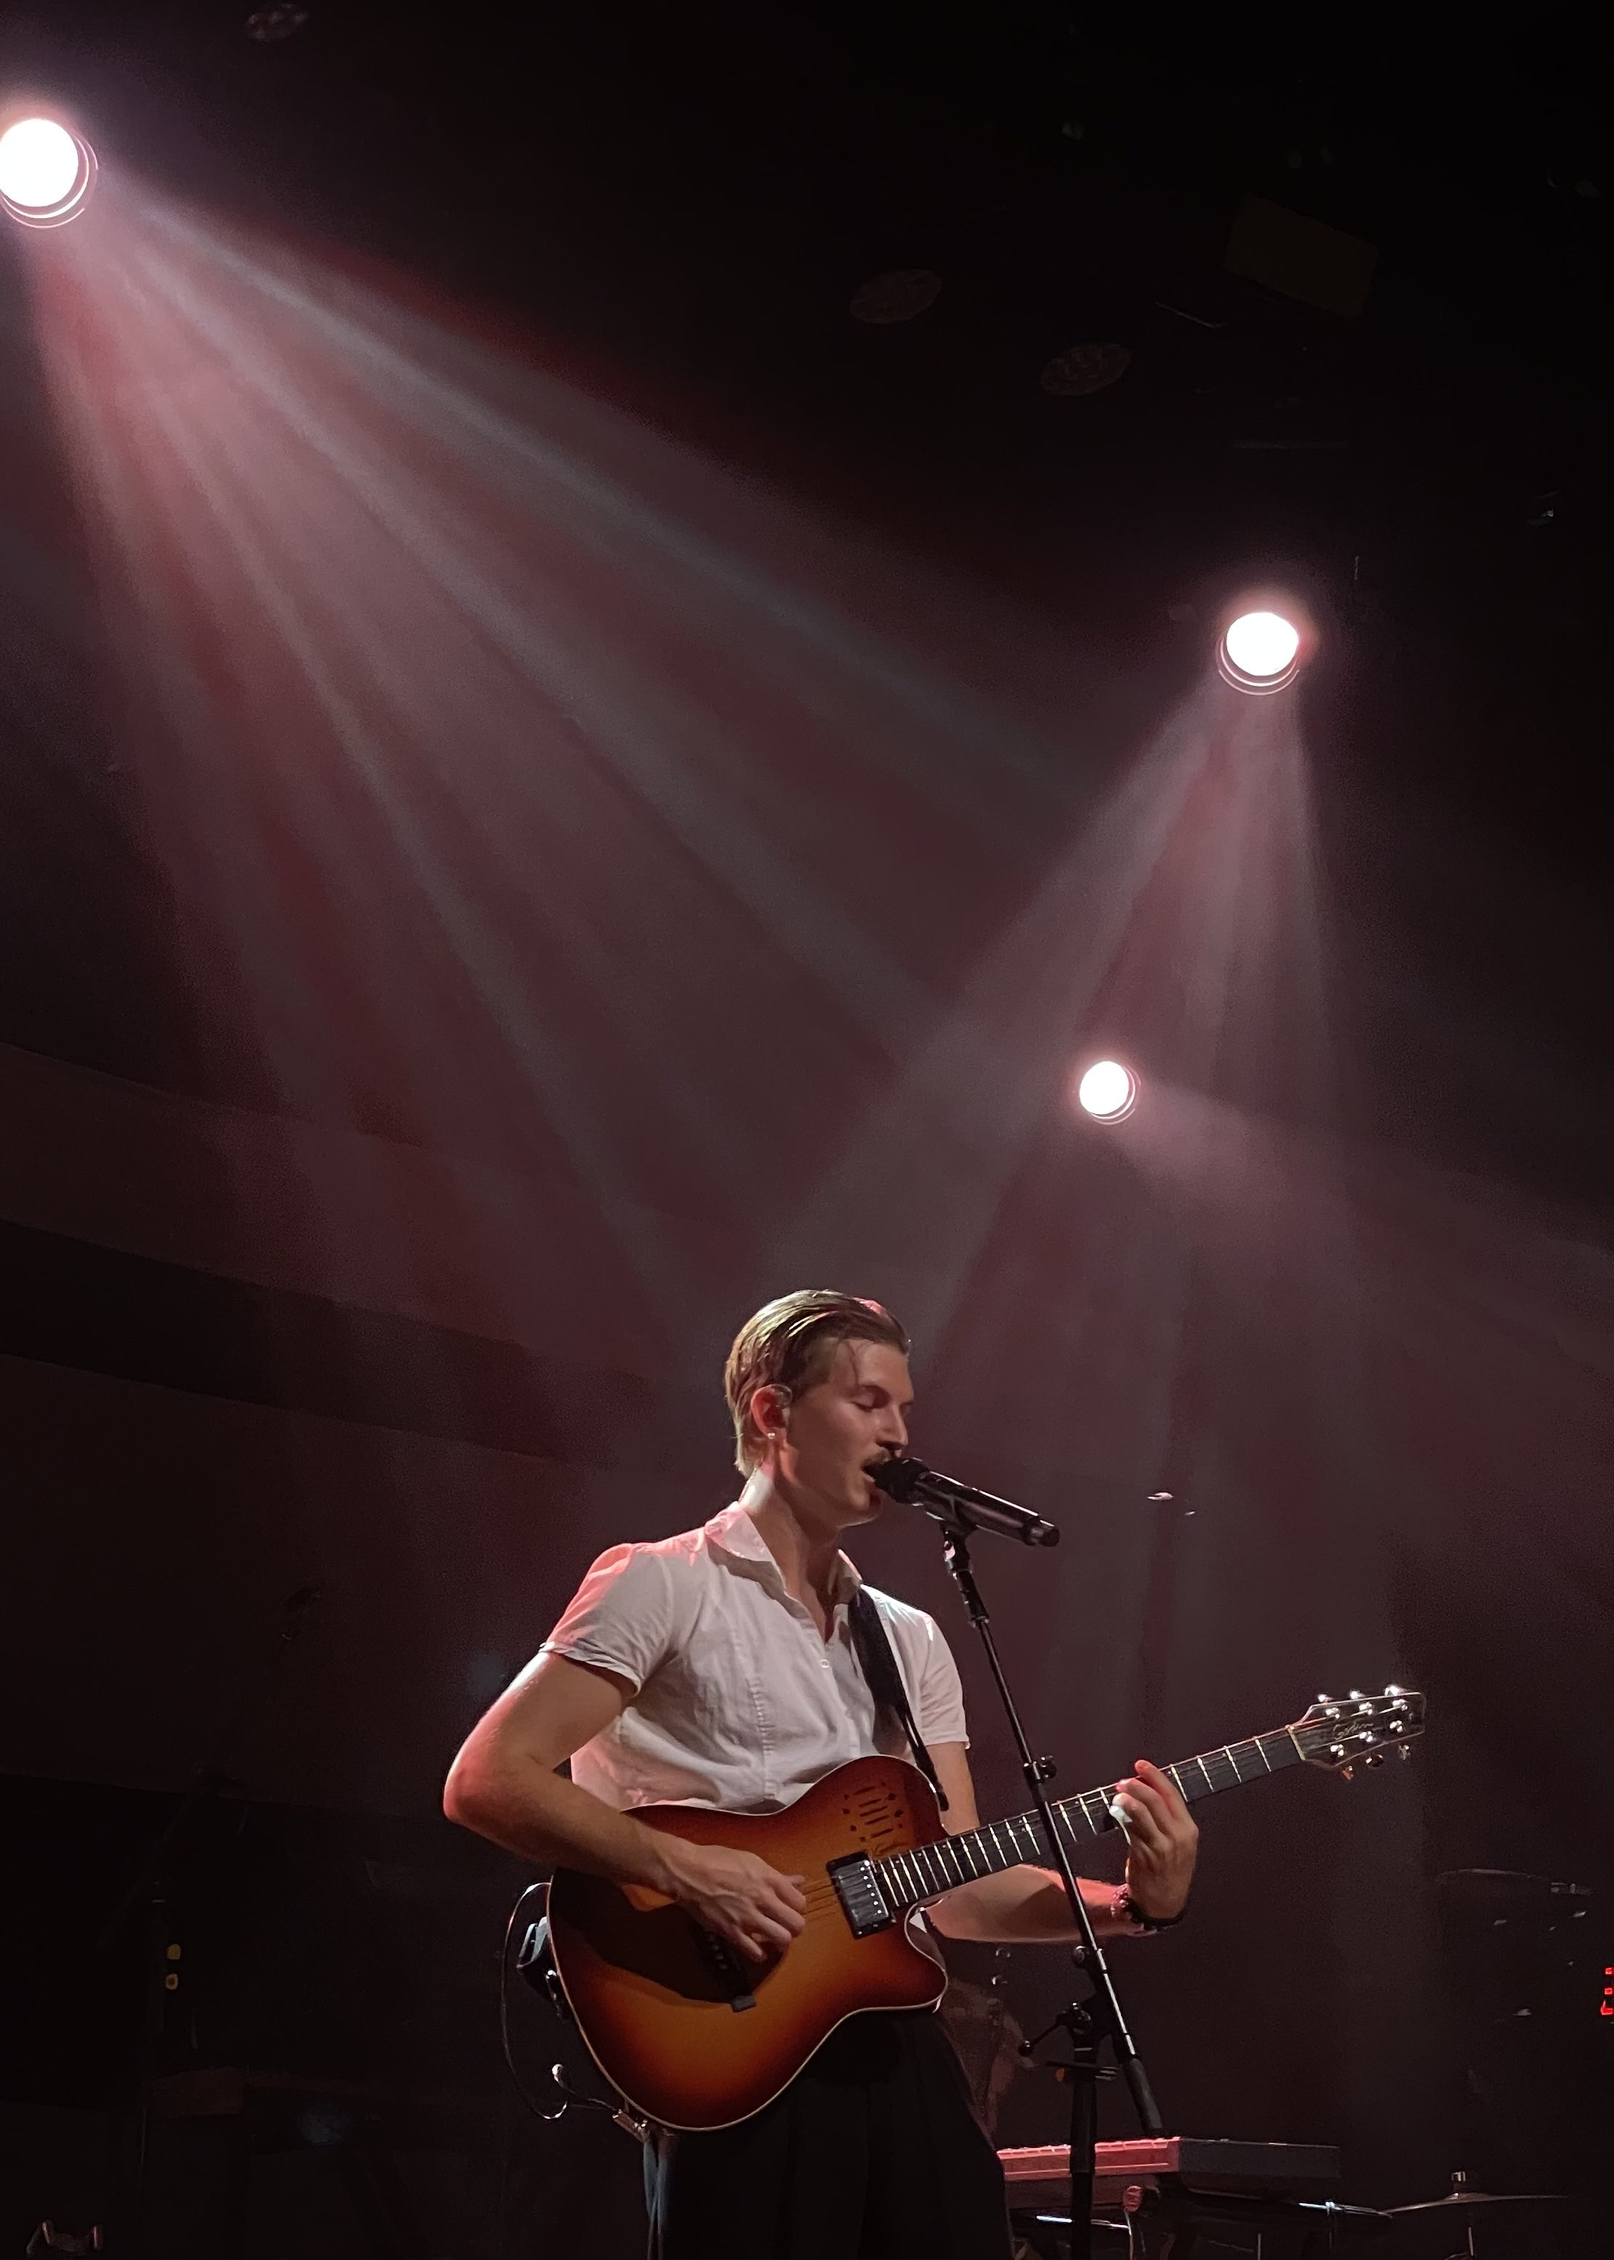
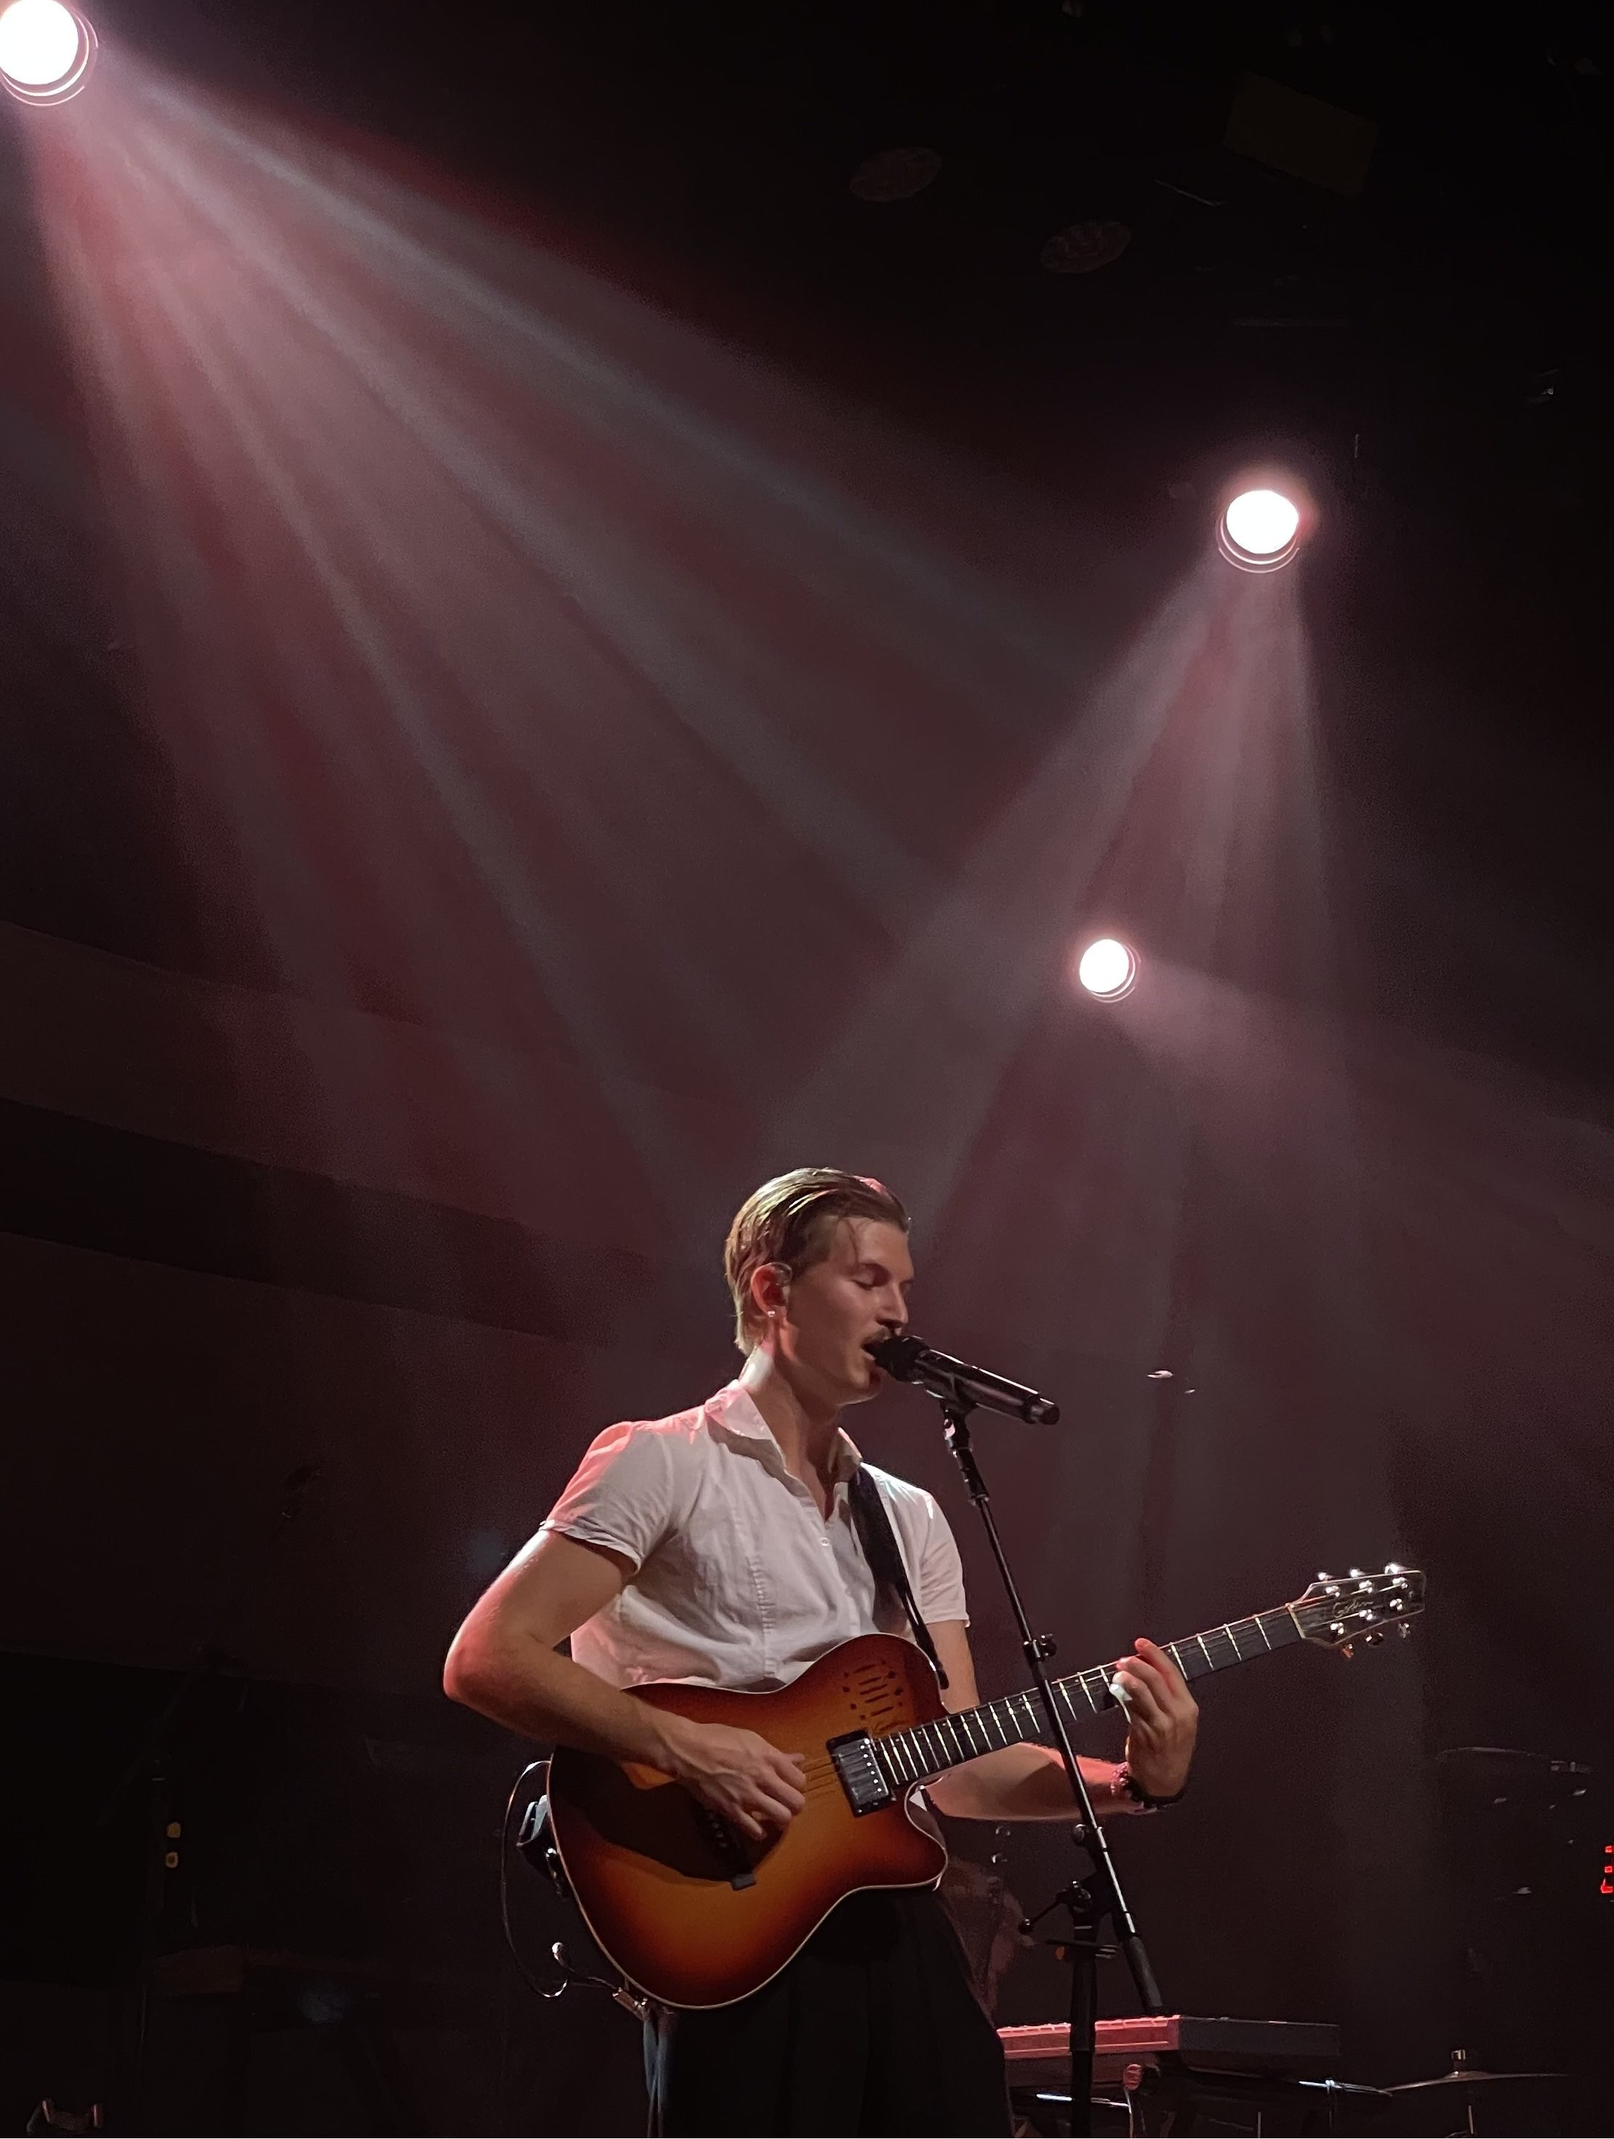
update concerts page

diff --git a/html5up-phantom/pages/concerts.html b/html5up-phantom/pages/concerts.html
@@ -28,38 +28,58 @@
 						<div class="row">
 							<article class="col-6 col-12-xsmall work-item">
 								<a href="images/concert/concert-1.jpg" class="image fit thumb"><img src="images/concert/concert-1.jpg" alt="" /></a>
-								<h3>Maimi Beach</h3>
-								<p>Ocean Dr. Miami Beach, FL</p>
+								<h3>Gus Dapperton</h3>
+								<p>The Fillmore Philadelphia</p>
 							</article>
 							<article class="col-6 col-12-xsmall work-item">
-								<a href="images/florida/fl-2.jpg" class="image fit thumb"><img src="images/florida/fl-2.jpg" alt="" /></a>
-								<h3>Naples Beach</h3>
-								<p>Naples Beach, Naples, FL</p>
-							</article>
-							<article class="col-6 col-12-xsmall work-item">
-								<a href="images/concert/concert-2.jpg" class="image fit thumb"><img src="images/concert/concert-2.jpg" alt="" /></a>
-								<h3>Maimi Beach</h3>
-								<p>Ocean Dr. Miami Beach, FL</p>
+								<a href="images/concert/concert-7.jpg" class="image fit thumb"><img src="images/concert/concert-7.jpg" alt="" /></a>
+								<h3>Hippo Campus</h3>
+								<p>The Met Philadelphia</p>
 							</article>
 							<article class="col-6 col-12-xsmall work-item">
 								<a href="images/concert/concert-3.jpg" class="image fit thumb"><img src="images/concert/concert-3.jpg" alt="" /></a>
-								<h3>Southernmost Point of the Continental U.S.A.</h3>
-								<p>Whitehead St, Key West, FL</p>
-							</article>
-							<article class="col-6 col-12-xsmall work-item">
-								<a href="images/concert/concert-4.jpg" class="image fit thumb"><img src="images/concert/concert-4.jpg" alt="" /></a>
-								<h3>Fort Lauderdale Beach</h3>
-								<p>Jimmy Buffett Mem Hwy, Fort Lauderdale, FL</p>
-							</article>
-							<article class="col-6 col-12-xsmall work-item">
-								<a href="images/concert/concert-5.jpg" class="image fit thumb"><img src="images/concert/concert-5.jpg" alt="" /></a>
-								<h3>Calusa Beach</h3>
-								<p>Big Pine Key, FL</p>
+								<h3>Gus Dapperton</h3>
+								<p>The Fillmore Philadelphia</p>
 							</article>
 							<article class="col-6 col-12-xsmall work-item">
 								<a href="images/concert/concert-6.jpg" class="image fit thumb"><img src="images/concert/concert-6.jpg" alt="" /></a>
-								<h3>Naples Beach</h3>
-								<p>Naples Beach, Naples, FL</p>
+								<h3>Hippo Campus</h3>
+								<p>The Met Philadelphia</p>
+							</article>
+							<article class="col-6 col-12-xsmall work-item">
+								<a href="images/concert/concert-8.jpg" class="image fit thumb"><img src="images/concert/concert-8.jpg" alt="" /></a>
+								<h3>Hippo Campus</h3>
+								<p>The Met Philadelphia</p>
+							</article>
+							<article class="col-6 col-12-xsmall work-item">
+								<a href="images/concert/concert-10.jpg" class="image fit thumb"><img src="images/concert/concert-10.jpg" alt="" /></a>
+								<h3>Asha Banks</h3>
+								<p>Brooklyn Bowl Philadelphia</p>
+							</article>
+							<article class="col-6 col-12-xsmall work-item">
+								<a href="images/concert/concert-11.jpg" class="image fit thumb"><img src="images/concert/concert-11.jpg" alt="" /></a>
+								<h3>Hippo Campus</h3>
+								<p>The Fillmore Philadelphia</p>
+							</article>
+							<article class="col-6 col-12-xsmall work-item">
+								<a href="images/concert/concert-12.jpg" class="image fit thumb"><img src="images/concert/concert-12.jpg" alt="" /></a>
+								<h3>Sabrina Carpenter</h3>
+								<p>Barclays Center</p>
+							</article>
+							<article class="col-6 col-12-xsmall work-item">
+								<a href="images/concert/concert-13.jpg" class="image fit thumb"><img src="images/concert/concert-13.jpg" alt="" /></a>
+								<h3>Sabrina Carpenter</h3>
+								<p>Barclays Center</p>
+							</article>
+							<article class="col-6 col-12-xsmall work-item">
+								<a href="images/concert/concert-14.jpg" class="image fit thumb"><img src="images/concert/concert-14.jpg" alt="" /></a>
+								<h3>Sabrina Carpenter</h3>
+								<p>Barclays Center</p>
+							</article>
+							<article class="col-6 col-12-xsmall work-item">
+								<a href="images/concert/concert-9.jpg" class="image fit thumb"><img src="images/concert/concert-9.jpg" alt="" /></a>
+								<h3>Hippo Campus</h3>
+								<p>The Fillmore Philadelphia</p>
 							</article>
 						</div>
 					</section>
